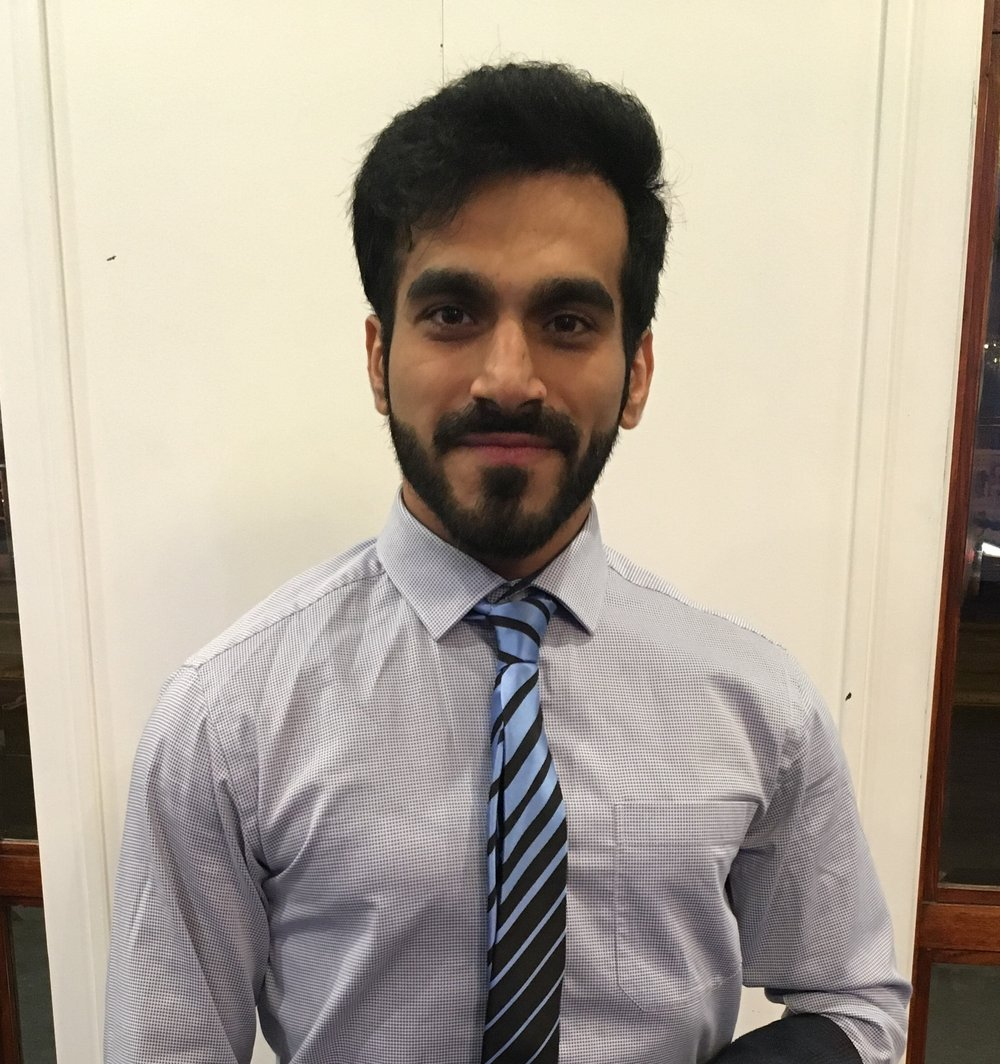
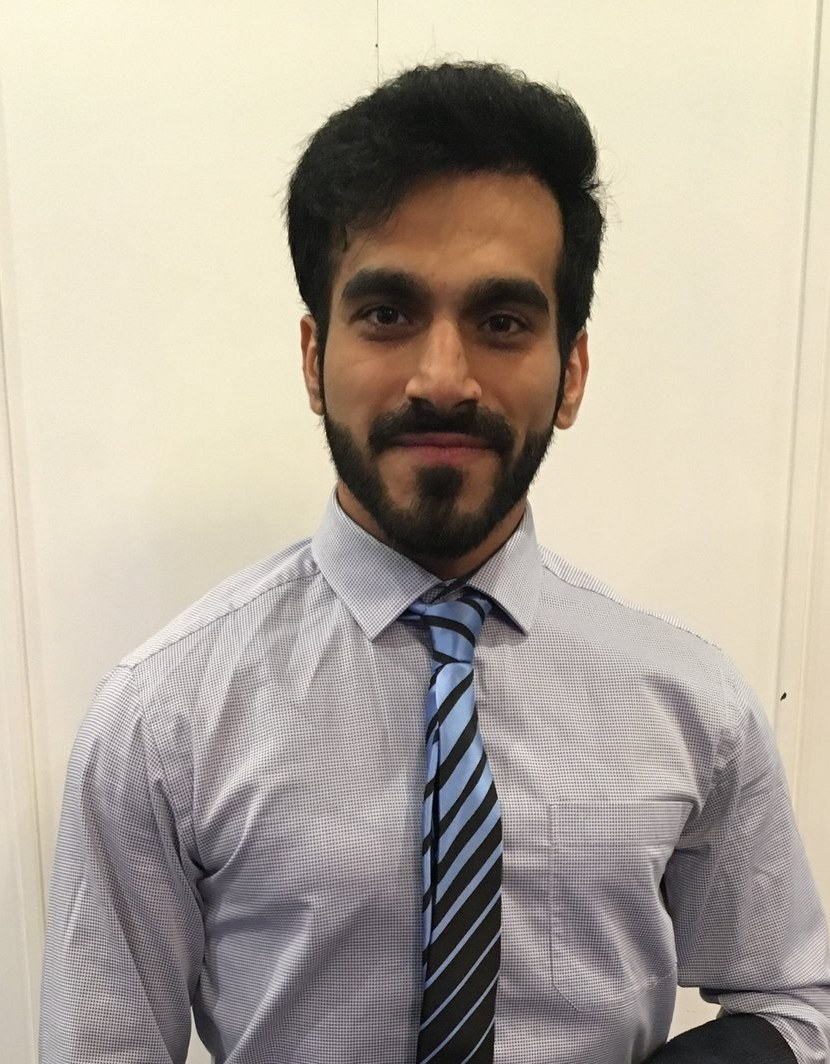
Fix unreadable nav resume button and clean up headshot background
- .nav-links a was overriding .btn's white text color due to higher CSS
  specificity, making the nav "Download Resume" button nearly invisible
  against its navy background. Added .nav-links a.btn override.
- Cropped headshot to remove the wood door frame/glass reflections
  visible on both edges of the original photo, and cloned out a small
  dust speck on the wall.

diff --git a/index.html b/index.html
@@ -123,6 +123,7 @@
     padding:6px 2px; border-bottom:2px solid transparent; transition:border-color .2s;
   }
   .nav-links a:hover, .nav-links a:focus-visible{border-bottom-color:var(--brass);}
+  .nav-links a.btn{color:#fff; border-bottom:none;}
   .btn{
     font-family:'IBM Plex Sans',sans-serif; font-weight:600; font-size:0.88rem;
     background:var(--navy); color:#fff; border:none; border-radius:3px;
@@ -398,7 +399,7 @@
       </div>
     </div>
     <div class="headshot-frame">
-      <img src="assets/images/headshot.jpg" alt="Portrait of Sarthak Sabharwal" width="1000" height="1064">
+      <img src="assets/images/headshot.jpg" alt="Portrait of Sarthak Sabharwal" width="830" height="1064">
     </div>
   </div>
 </section>
@@ -639,7 +640,7 @@
 
 <section id="about">
   <div class="wrap about-grid">
-    <div class="about-portrait reveal"><img src="assets/images/headshot.jpg" alt="Portrait of Sarthak Sabharwal" width="1000" height="1064"></div>
+    <div class="about-portrait reveal"><img src="assets/images/headshot.jpg" alt="Portrait of Sarthak Sabharwal" width="830" height="1064"></div>
     <div class="about-body reveal">
       <span class="eyebrow">About</span>
       <h2 style="margin-bottom:20px;">A decade of translating ambiguity into structure</h2>